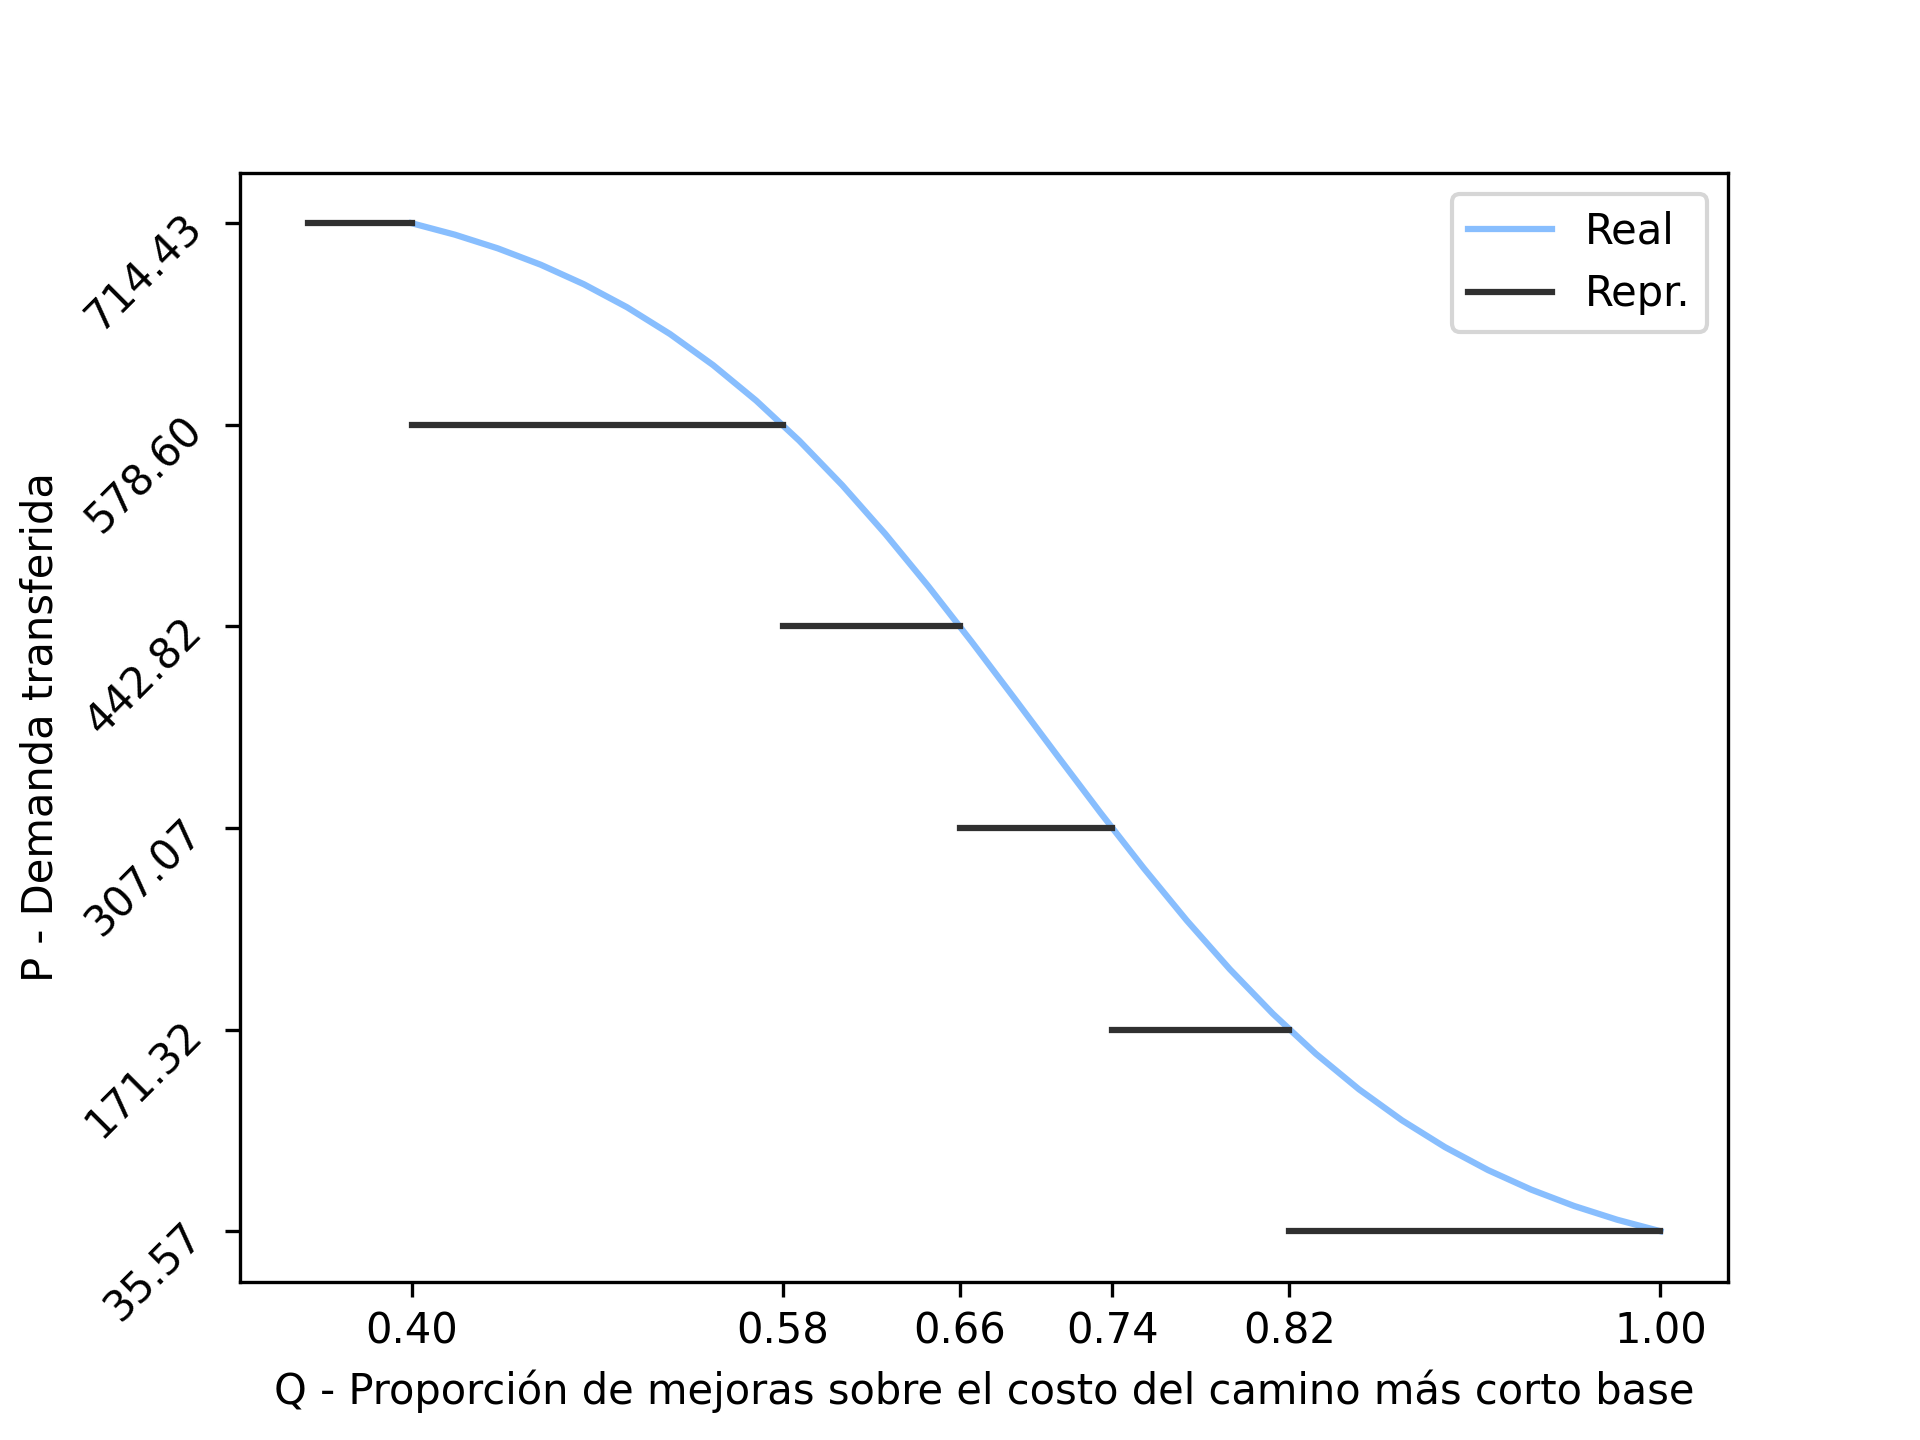
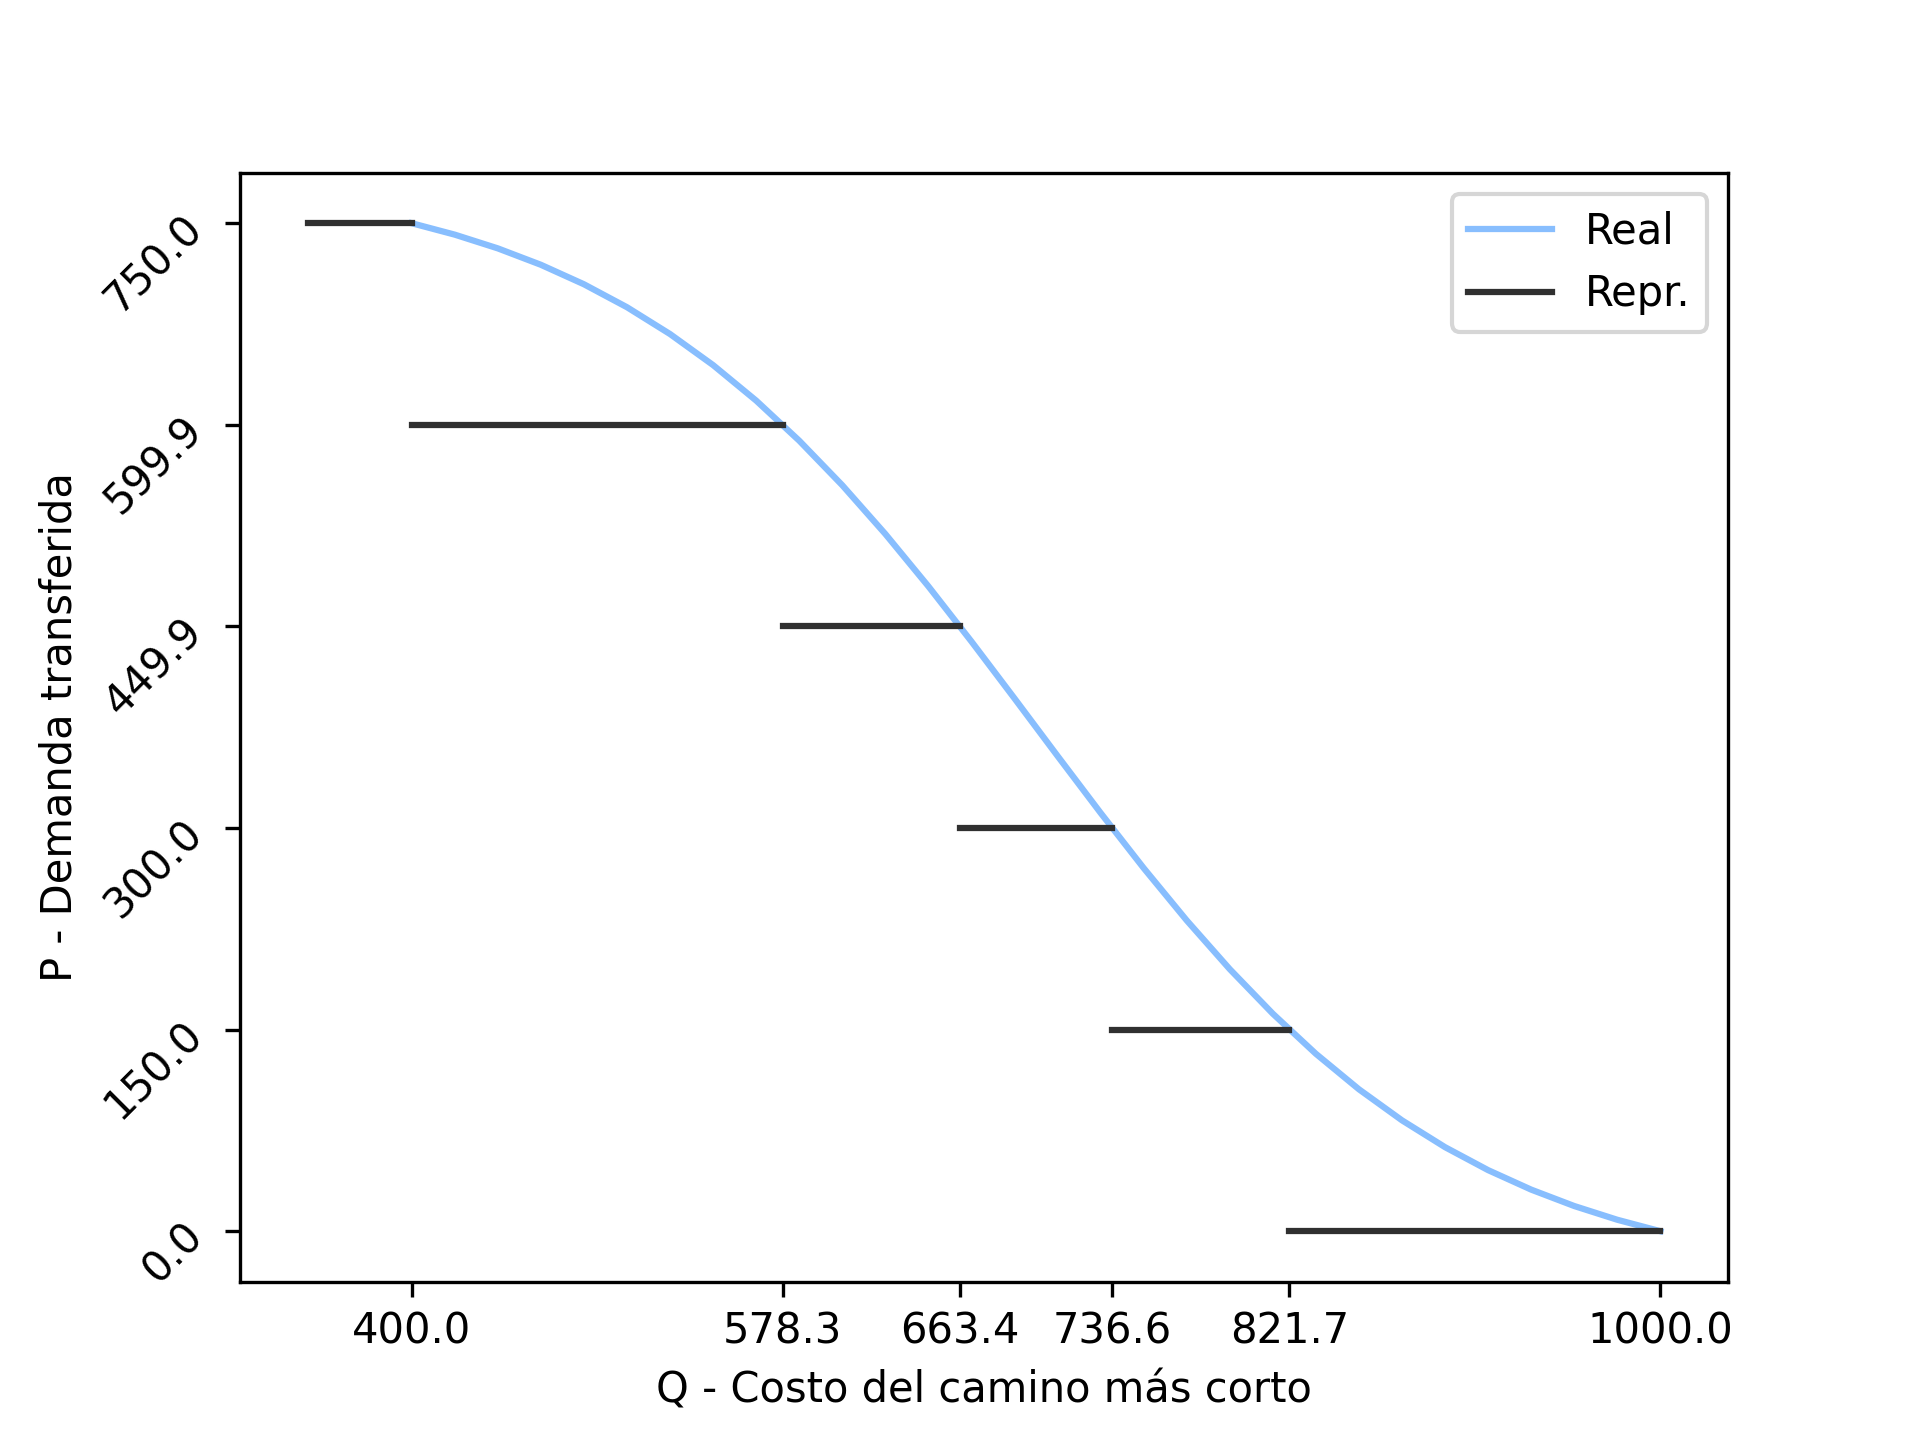
improve f modeling example drawing

diff --git a/scripts/docresources.py b/scripts/docresources.py
@@ -61,43 +61,55 @@ def draw_f_example():
     lineal formulation.
     """
     m = 0.4
-    domain = np.linspace(m, 1, 30)
     demand = 750
+    base_shortet_path = 1000
+    domain = np.linspace(m, 1, 30)
 
     fig, ax = plt.subplots()
 
-    func = inv_logit
-    ax.plot(domain, func(domain, m=m), color=bc.colors.sky_blue, label='Real')
+    func = functools.partial(inv_logit, m=m)
+
+    ax.plot(
+        domain * base_shortet_path,
+        bc.model_utils.normalize(func(domain)) * demand,
+        color=bc.colors.sky_blue, label='Real',
+    )
 
     breakpoints = bc.model_utils.build_breakpoints(func, 6, m)
     breakpoints.reverse()
+    ys, xs = zip(*breakpoints)
+    transfers = np.array(ys) * demand
+    improvements = np.array(xs) * base_shortet_path
 
-    for i, point in enumerate(breakpoints):
+    absolute_breakpoints = list(zip(transfers, improvements))
+
+    for i, point in enumerate(absolute_breakpoints):
         y, x = point
         label = None
 
         if i == 0:
-            prev_x = m - 0.05
+            prev_x = (m - 0.05) * base_shortet_path
         else:
-            prev_x = breakpoints[i - 1][1]
+            prev_x = absolute_breakpoints[i - 1][1]
 
-        if i == len(breakpoints) - 1:
+        if i == len(absolute_breakpoints) - 1:
             label = 'Repr.'
 
         ax.plot([prev_x, x], [y, y], color=bc.colors.gray_dark, label=label)
 
-    ys, xs = zip(*breakpoints)
-
     ax.tick_params(axis='y', which='both', labelrotation=45)
+
     num_formatter = ticker.FormatStrFormatter('%.2f')
     ax.xaxis.set_major_formatter(num_formatter)
 
-    ax.set_yticks(ys)
-    ax.set_yticklabels([format(d, '.2f') for d in demand * np.array(ys)])
-    ax.set_xticks(xs)
+    transfers.sort()
+    ax.set_yticks(transfers)
+    ax.set_yticklabels([format(d, '.1f') for d in transfers])
+    ax.set_xticks(improvements)
+    ax.set_xticklabels([format(d, '.1f') for d in improvements])
 
     ax.set_xlabel(
-        'Q - Proporción de mejoras sobre el costo del camino más corto base')
+        'Q - Costo del camino más corto')
     ax.set_ylabel('P - Demanda transferida')
     ax.legend()
 

diff --git a/thesis/doc-udelar/capitulos/chap03_resolution.tex b/thesis/doc-udelar/capitulos/chap03_resolution.tex
@@ -75,7 +75,7 @@ Nótese que esta definición es una extensión de la {\it all-or-nothing} en (\r
 \begin{figure}[h!]
   \centering
   \includegraphics[width=8cm]{../resources/f_example.png}
-  \caption{Ejemplo de una función arbitraria y su representación con el mecanismo planteado sobre una demanda total de 750. Los puntos donde hacer los quiebres son arbitrarios.}
+  \caption{Ejemplo de una función arbitraria y su representación con el mecanismo planteado sobre una demanda total de 750 y un costo del camino más corto base de 1000. Los puntos donde hacer los quiebres son arbitrarios.}
   \label{fig:fdrawexample}
 \end{figure}
 

diff --git a/bcnetwork/model_utils.py b/bcnetwork/model_utils.py
@@ -3,6 +3,13 @@ import numpy as np
 from .costs import calculate_user_cost
 
 
+def normalize(y):
+    """
+    Normalize numpy vector to be between 0 and 1
+    """
+    return (y - y.min()) / (y.max() - y.min())
+
+
 def build_breakpoints(func, count, m=None, infrastructure_count=None):
     """
     Return list of breakpoints by evaluating func
@@ -21,7 +28,7 @@ def build_breakpoints(func, count, m=None, infrastructure_count=None):
     y = func(x)
 
     # Normalize y to [0,1].
-    y = (y - y.min()) / (y.max() - y.min())
+    y = normalize(y)
 
     interval = (y.max() - y.min()) / (count - 1)
     breakpoints = []
